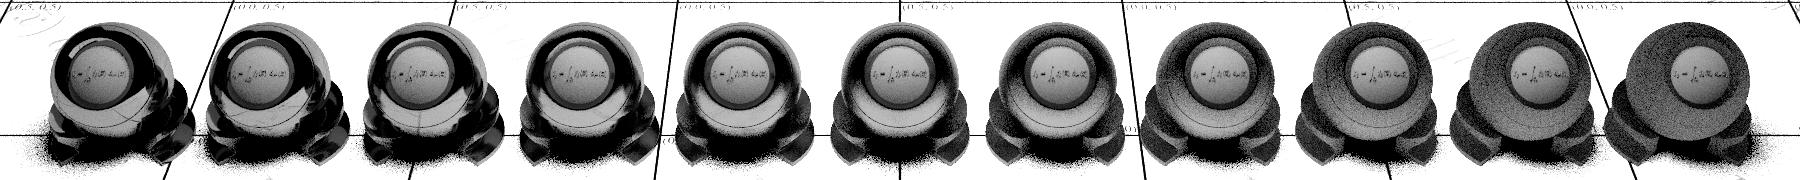
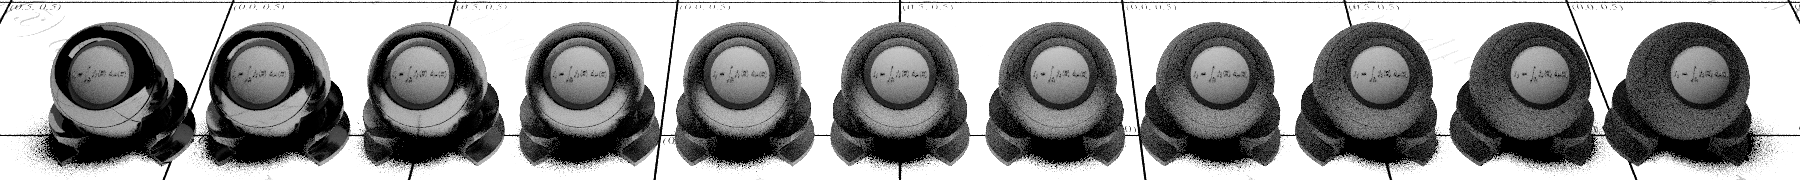
fix: proper GGX sampling, proper reflection weighting

diff --git a/src/crayg/src/scene/shadingnetworks/materials/UsdPreviewSurface.cpp b/src/crayg/src/scene/shadingnetworks/materials/UsdPreviewSurface.cpp
@@ -42,20 +42,33 @@ float F_schlick(float ior, const Vector3f &view, const Vector3f &halfVector) {
     return F_0 + (1.f - F_0) * oneMinus * oneMinus * oneMinus * oneMinus * oneMinus;
 }
 
+Vector3f sampleGGX(float roughness) {
+    const float alpha = roughness * roughness;
+
+    const float xi1 = Random::random();
+    const float xi2 = Random::random();
+
+    const float theta_h = std::atan(alpha * std::sqrt(xi1 / (1.0f - xi1)));
+
+    const float phi_h = 2.0f * M_PI * xi2;
+
+    const float sinThetaH = std::sin(theta_h);
+    const float h_x = sinThetaH * std::cos(phi_h);
+    const float h_y = std::cos(theta_h);
+    const float h_z = sinThetaH * std::sin(phi_h);
+
+    return Vector3f(h_x, h_y, h_z).normalize();
+}
+
 Vector3f roughReflect(const SurfaceInteraction &surfaceInteraction, float roughness) {
-    const Vector3f perfectReflection = surfaceInteraction.ray.direction.reflect(surfaceInteraction.normal);
-
-    if (roughness == 0) {
-        return perfectReflection;
-    }
-
-    const Vector3f randomDirOnHemisphere = Sampling::uniformSampleHemisphere();
+    const Vector3f microfacetNormal = sampleGGX(roughness);
     auto orthonormalBasis = surfaceInteraction.getOrthonormalBasis();
-    const Vector3f roughReflection = orthonormalBasis.toLocalCoordinates(randomDirOnHemisphere);
-    return MathUtils::lerp(roughness * roughness, perfectReflection, roughReflection);
+    const Vector3f roughReflection = orthonormalBasis.toLocalCoordinates(microfacetNormal);
+    return surfaceInteraction.ray.direction.reflect(roughReflection);
 }
 
 void UsdPreviewSurface::getLobes(const SurfaceInteraction &surfaceInteraction, Lobes &lobes) {
+    lobes.emission.weight = emissiveColor.evaluate(surfaceInteraction);
     const Color evaluatedDiffuse = diffuseColor.evaluate(surfaceInteraction);
     const float evaluatedMetallic = metallic.evaluate(surfaceInteraction);
 
@@ -81,9 +94,10 @@ void UsdPreviewSurface::getLobes(const SurfaceInteraction &surfaceInteraction, L
             surfaceInteraction.spawnRayFromSurface(roughReflect(surfaceInteraction, evaluatedRoughness));
         const float evaluatedIor = ior.evaluate(surfaceInteraction);
         reflectance = F_schlick(evaluatedIor, surfaceInteraction.ray.direction, halfVector);
+        lobes.specular.weight = lobes.specular.weight * reflectance;
     }
 
-    lobes.diffuse.weight = (Color::createWhite() - lobes.specular.weight * reflectance) * evaluatedDiffuse;
+    lobes.diffuse.weight = (Color::createWhite() - lobes.specular.weight) * evaluatedDiffuse;
     if (!lobes.diffuse.weight.isBlack()) {
         const Vector3f randomDirOnHemisphere = Sampling::uniformSampleHemisphere();
         auto orthonormalBasis = surfaceInteraction.getOrthonormalBasis();
